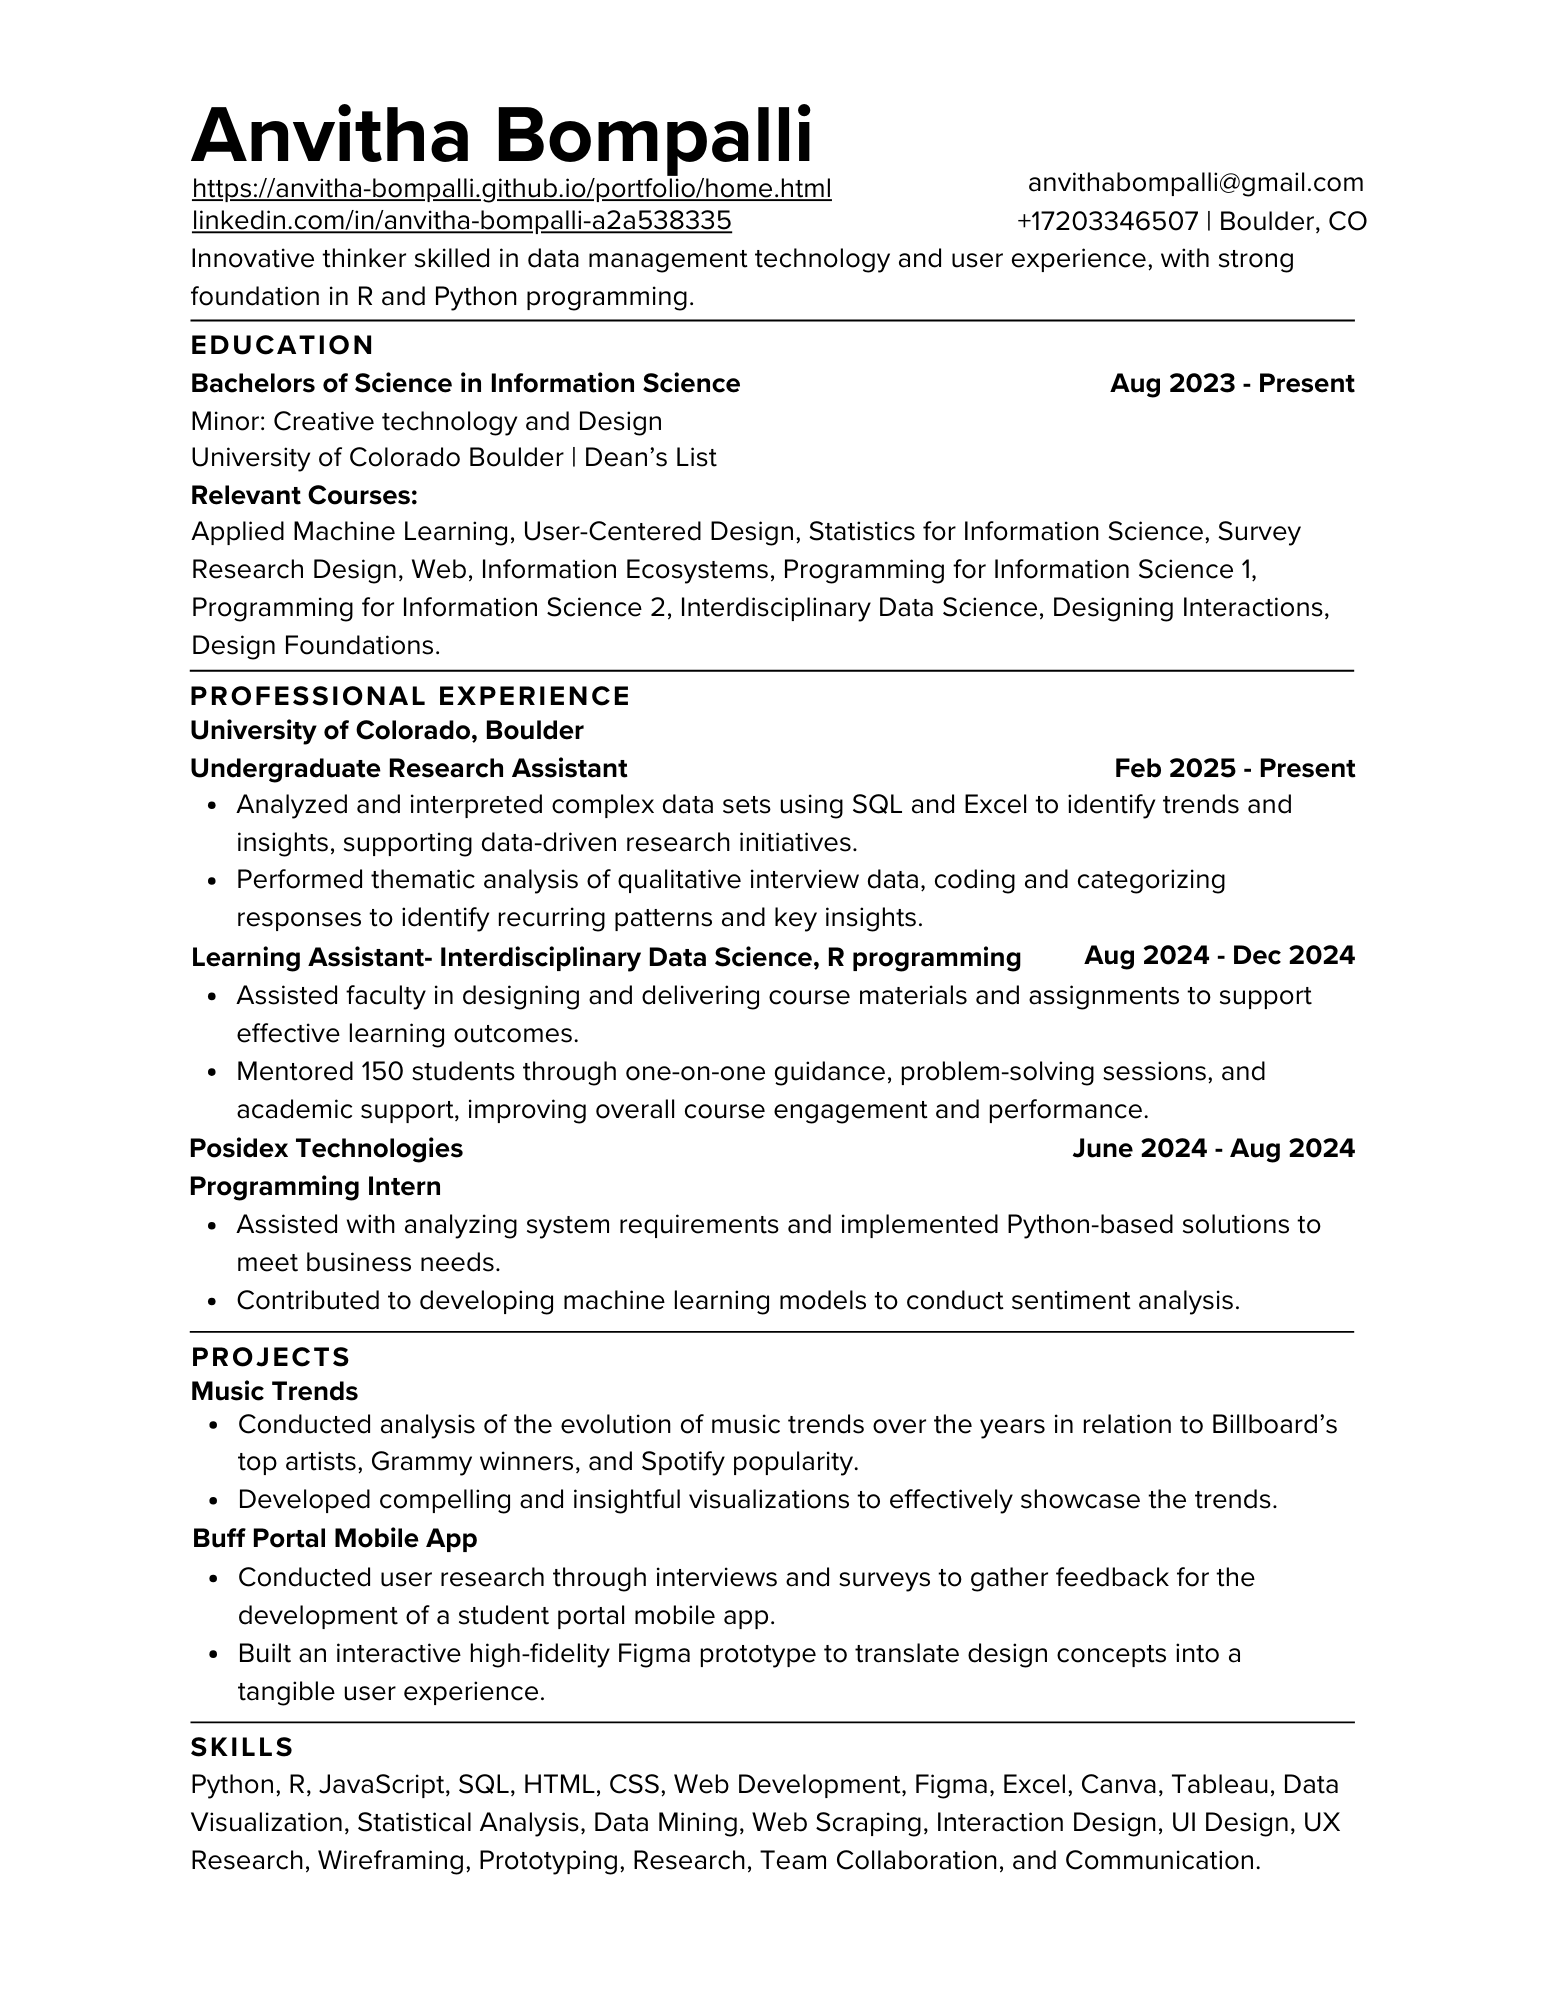
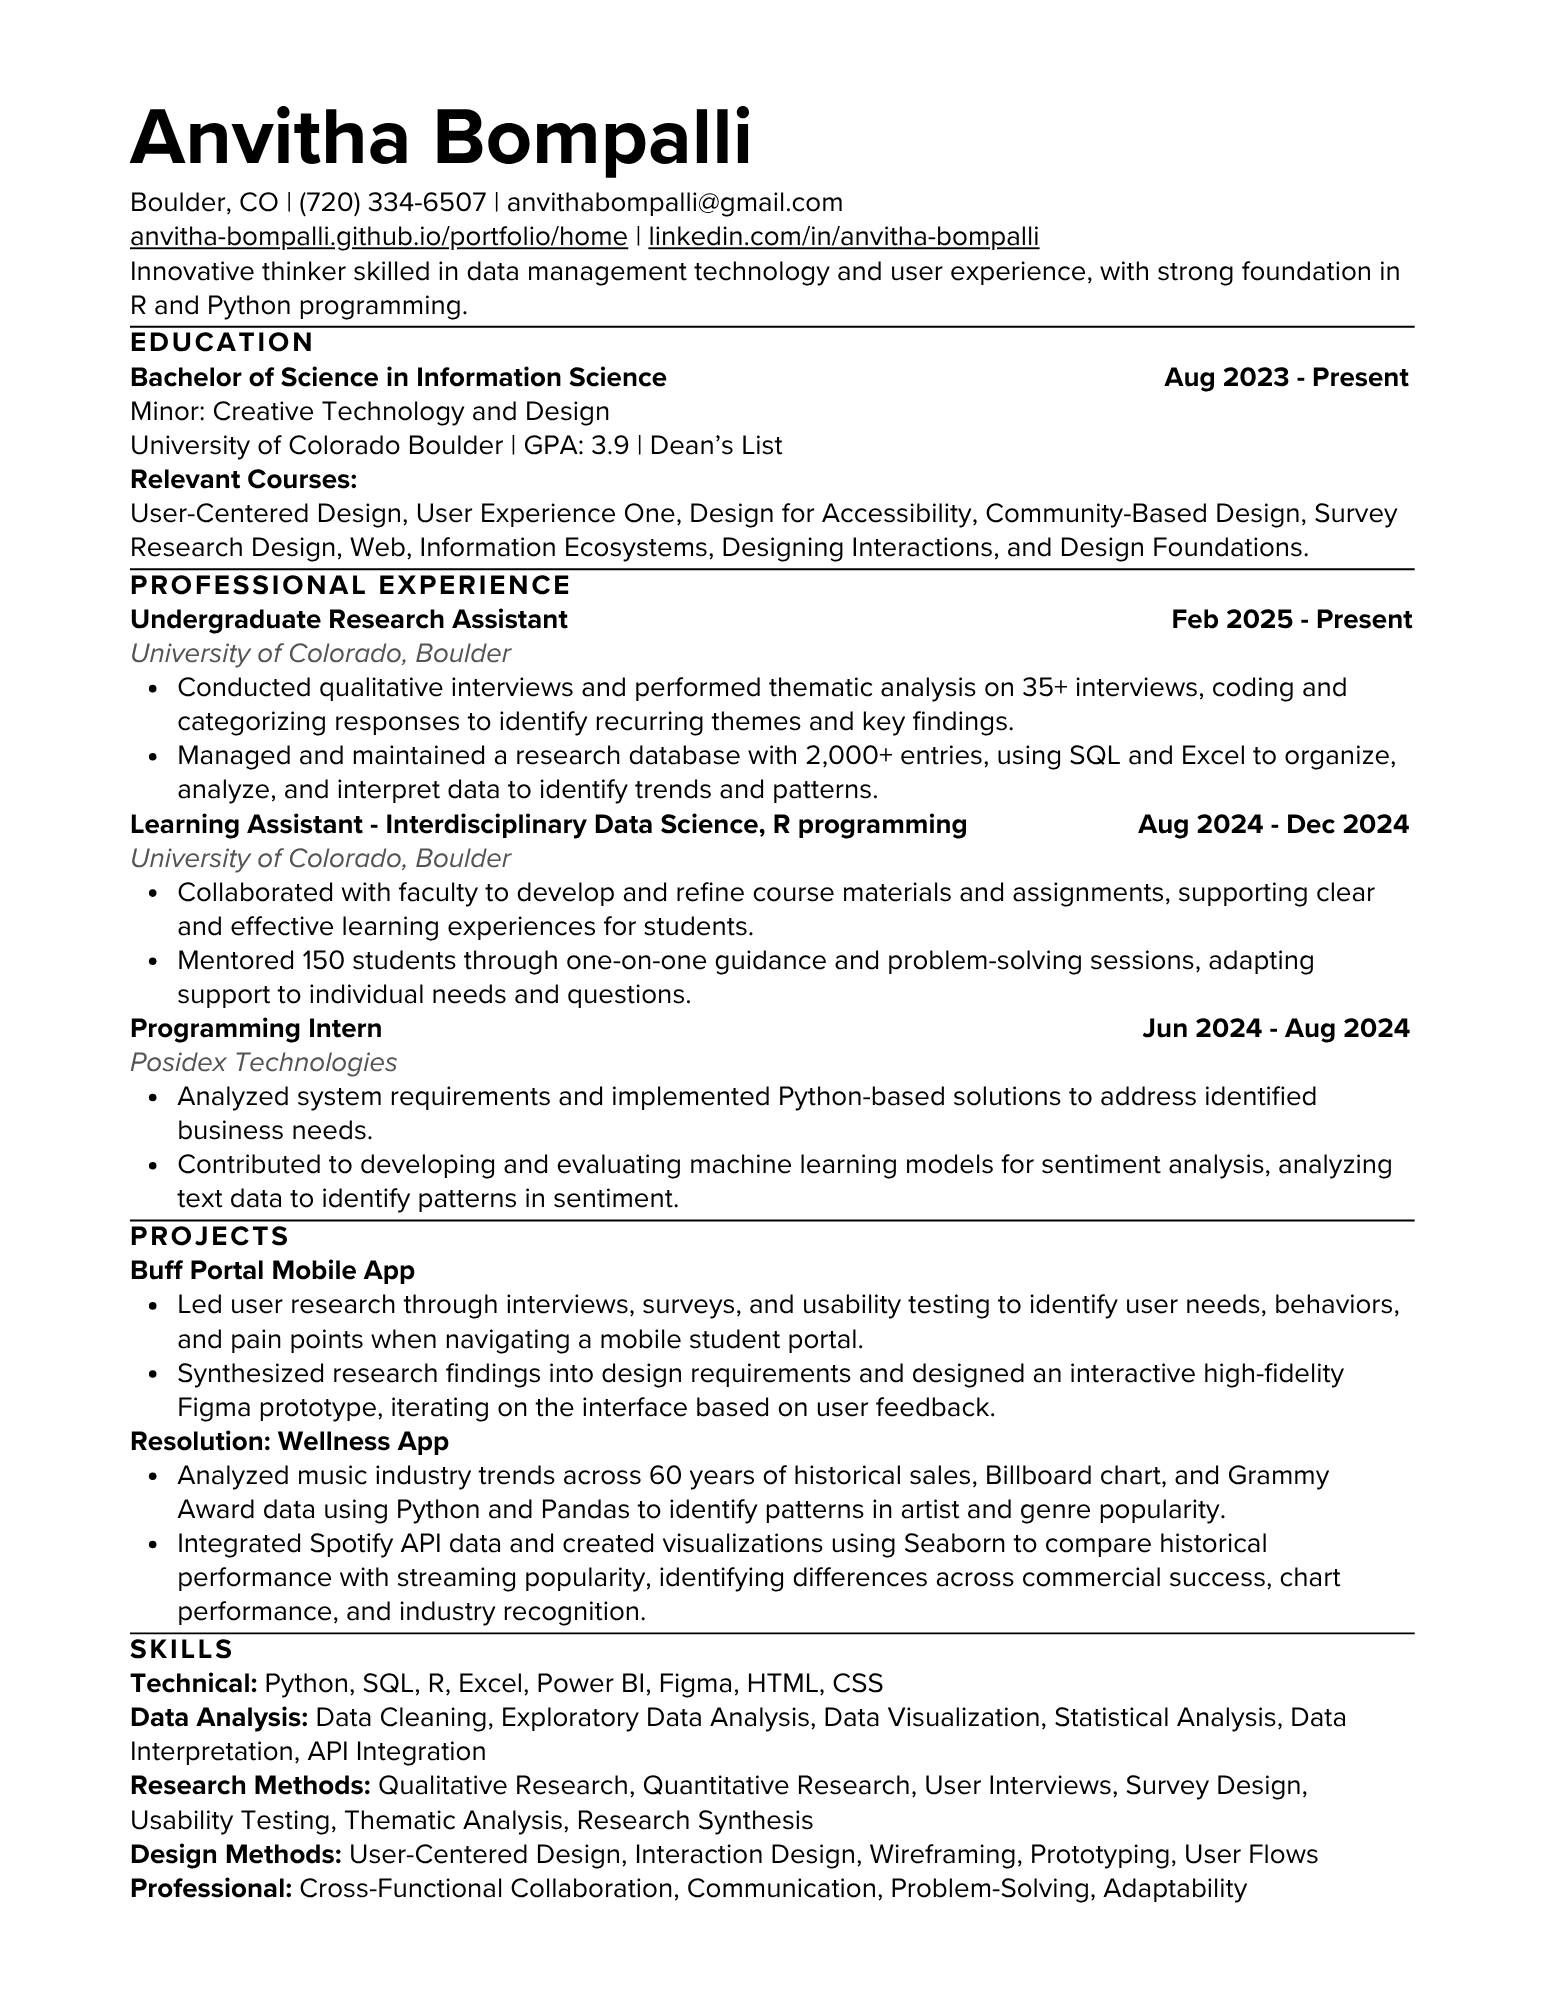
resume update

Changed region(s): [[0.0621, 0.031, 0.901, 0.9615]]

diff --git a/portfolio/about.html b/portfolio/about.html
@@ -31,8 +31,10 @@
         <section class="about-intro" aria-label="About me">
             <div class="about-intro-text">
                 <h2>About me!</h2>
-                <p>Hi there! I am an undergraduate student at CU Boulder, majoring in Information Science.
-                My academic journey focuses on the intersection of people, information, and systems.</p>
+                <p>Hi there! I'm an undergraduate student at CU Boulder, majoring in Information Science with a minor in Creative Technology and Design.</p>
+                <p>My interests lie at the intersection of design, accessibility, and data. I'm passionate about understanding how people interact with technology and using research and data-driven insights to create intuitive, inclusive, and meaningful experiences.</p>
+                <p>Through my projects, I've explored everything from user research and interface design to data analysis and visualization. I enjoy combining analytical thinking with creativity to solve problems, challenge design assumptions, and make technology more accessible to everyone.</p>
+                <p>I'm always looking for opportunities to learn, explore new perspectives, and create things that make people's everyday experiences a little better.</p>
             </div>
 
             <div class="collage">
@@ -42,30 +44,6 @@
                 <img class="collage-item" src="images/aboutFour.JPG" width="400" height="500">
             </div>
         </section>
-
-        <!-- Interests + goals -->
-        <section class="about-detailed" aria-label="Interests and goals">
-            <article class="about-section">
-                <h2>My Interests</h2>
-                <p>I am very interested in learning more about being a data scientist and a good designer. Here are some of my passions!</p>
-                <ul>
-                    <li>Designing user-centric solutions</li>
-                    <li>Data exploration, analysis and visualization</li>
-                    <li>Tackling complex problems</li>
-                    <li>Taking the most random pictures and crocheting!</li>
-                </ul>
-            </article>
-
-            <article class="about-section">
-                <h2>My Goals</h2>
-                <ul>
-                    <li>Bridge data science and design to create solutions that are more accessible and fun</li>
-                    <li>Combine technical and creative skills to tackle various problems</li>
-                    <li>Push my boundaries by taking on challenges that expand my skills and perspective</li>
-                </ul>
-            </article>
-        </section>
-    </main>
 
     <footer>
         <p class="footer-connect">

diff --git a/portfolio/resume.html b/portfolio/resume.html
@@ -31,6 +31,9 @@
             <div class="resume-container">
                 <img src="images/Bompalli_Anvitha_Resume.png" alt="Anvitha Bompalli Resume" class="resume-image">
             </div>
+            <div class="resume-download">
+                <a href="images/Bompalli_Anvitha_Resume.png" download="Bompalli_Anvitha_Resume.png" class="hero-button">Download Resume</a>
+            </div>
         </section>
     </main>
 

diff --git a/portfolio/style.css b/portfolio/style.css
@@ -386,6 +386,17 @@ nav a[aria-current="page"] {
     box-shadow: 4px 4px 0px #D9B3B0;
 }
 
+.resume-download {
+    display: flex;
+    justify-content: center;
+    margin-top: 32px;
+}
+
+.resume-download .hero-button {
+    text-align: center;
+    text-decoration: none;
+}
+
 /* ---------- Connect ---------- */
 
 .connect-section {
